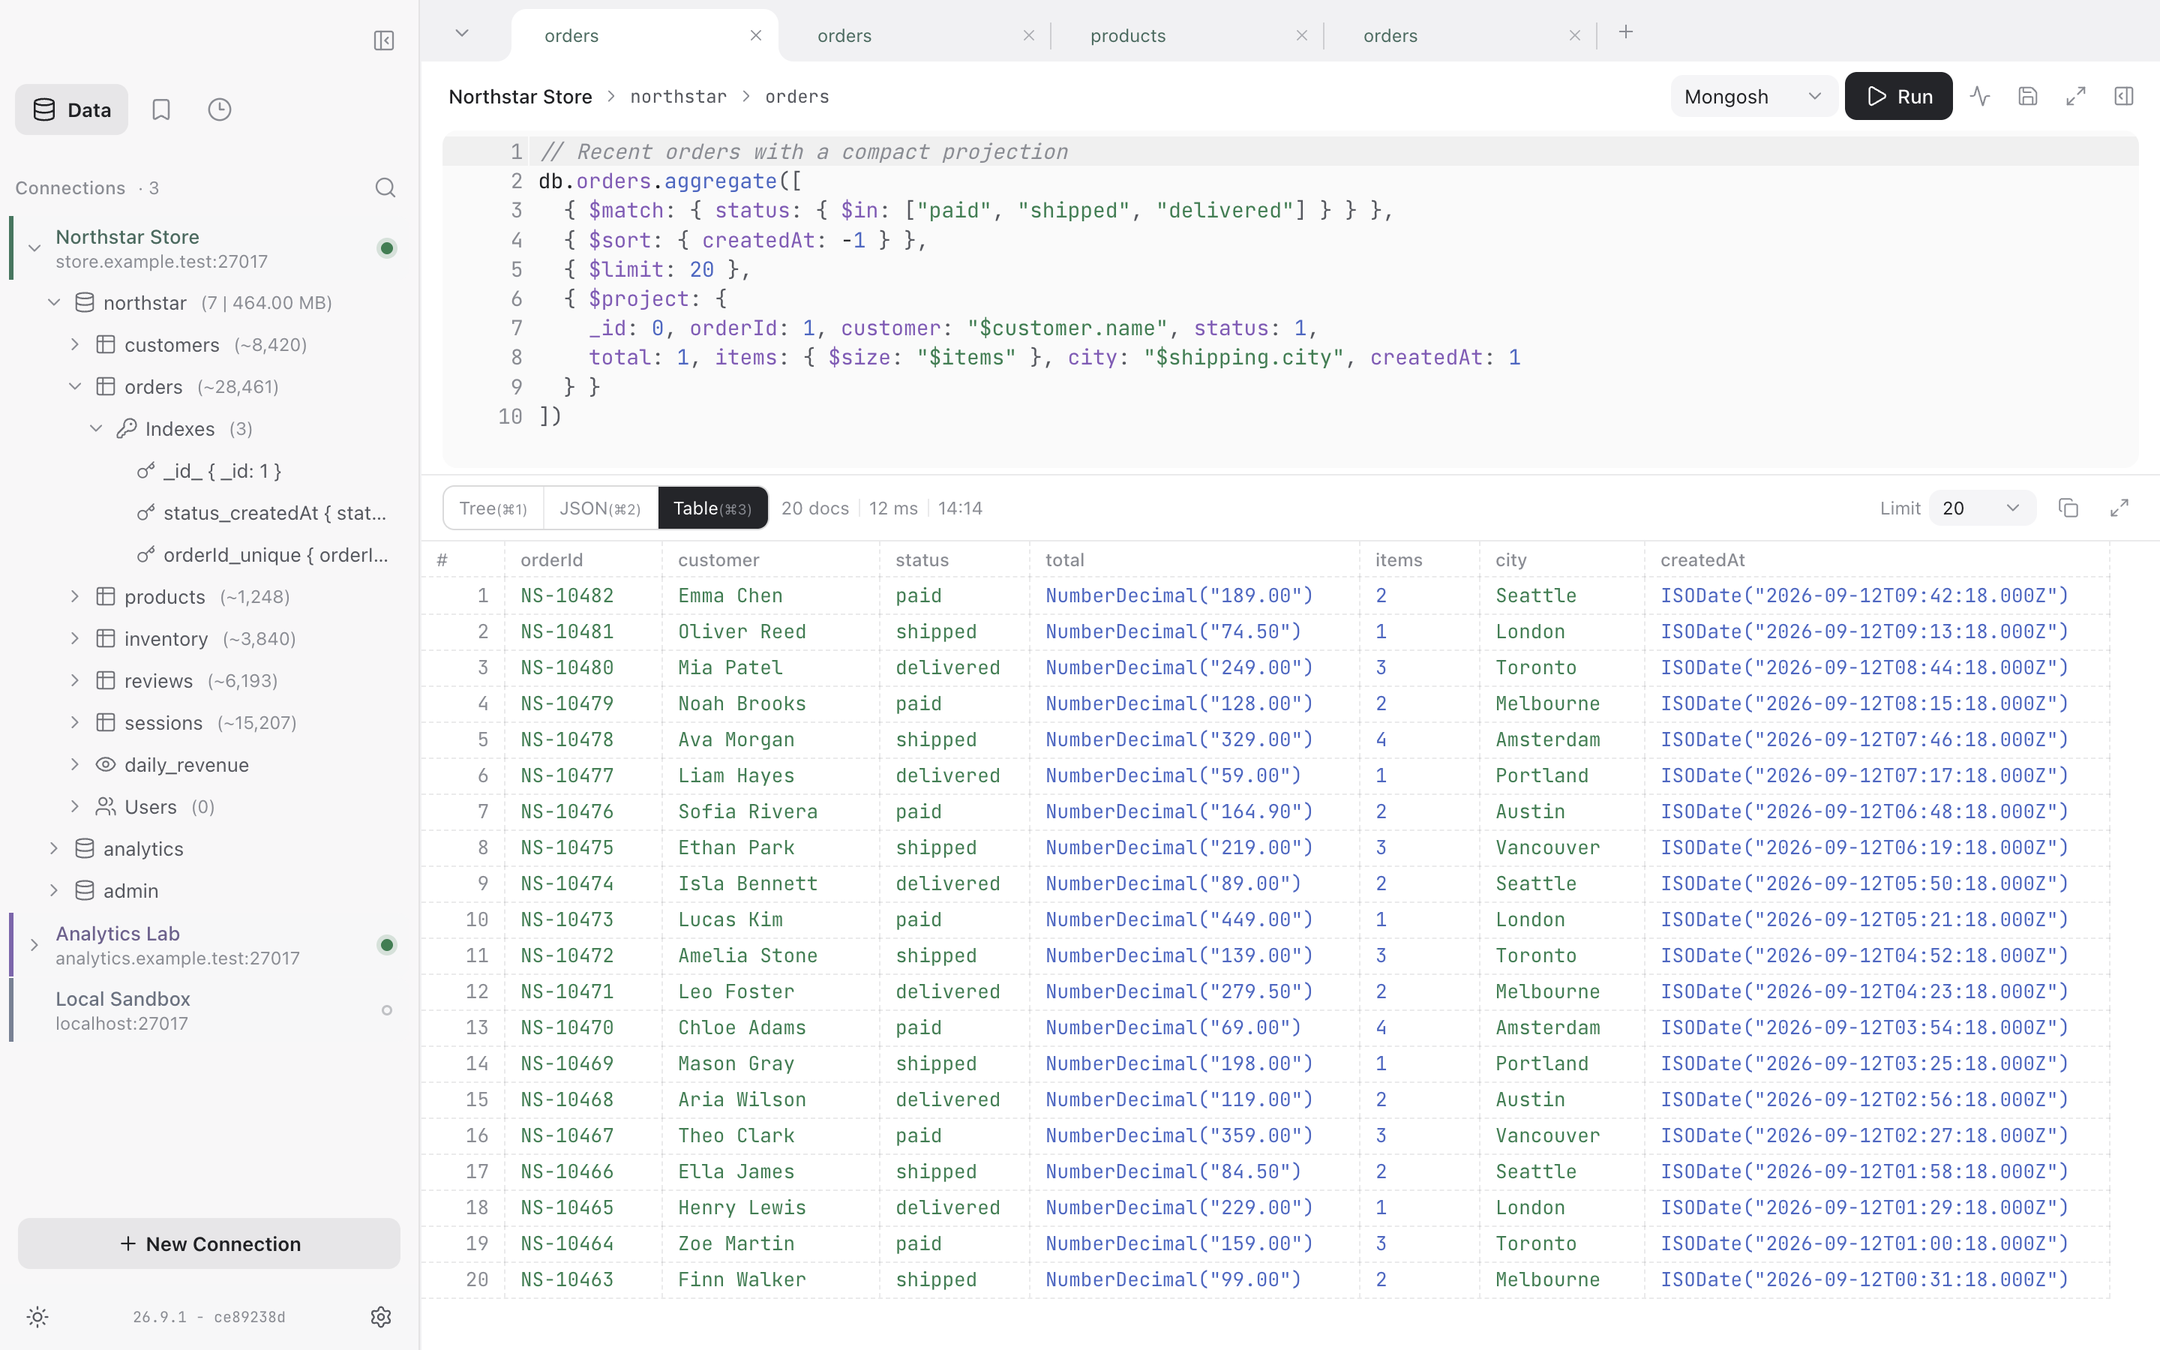
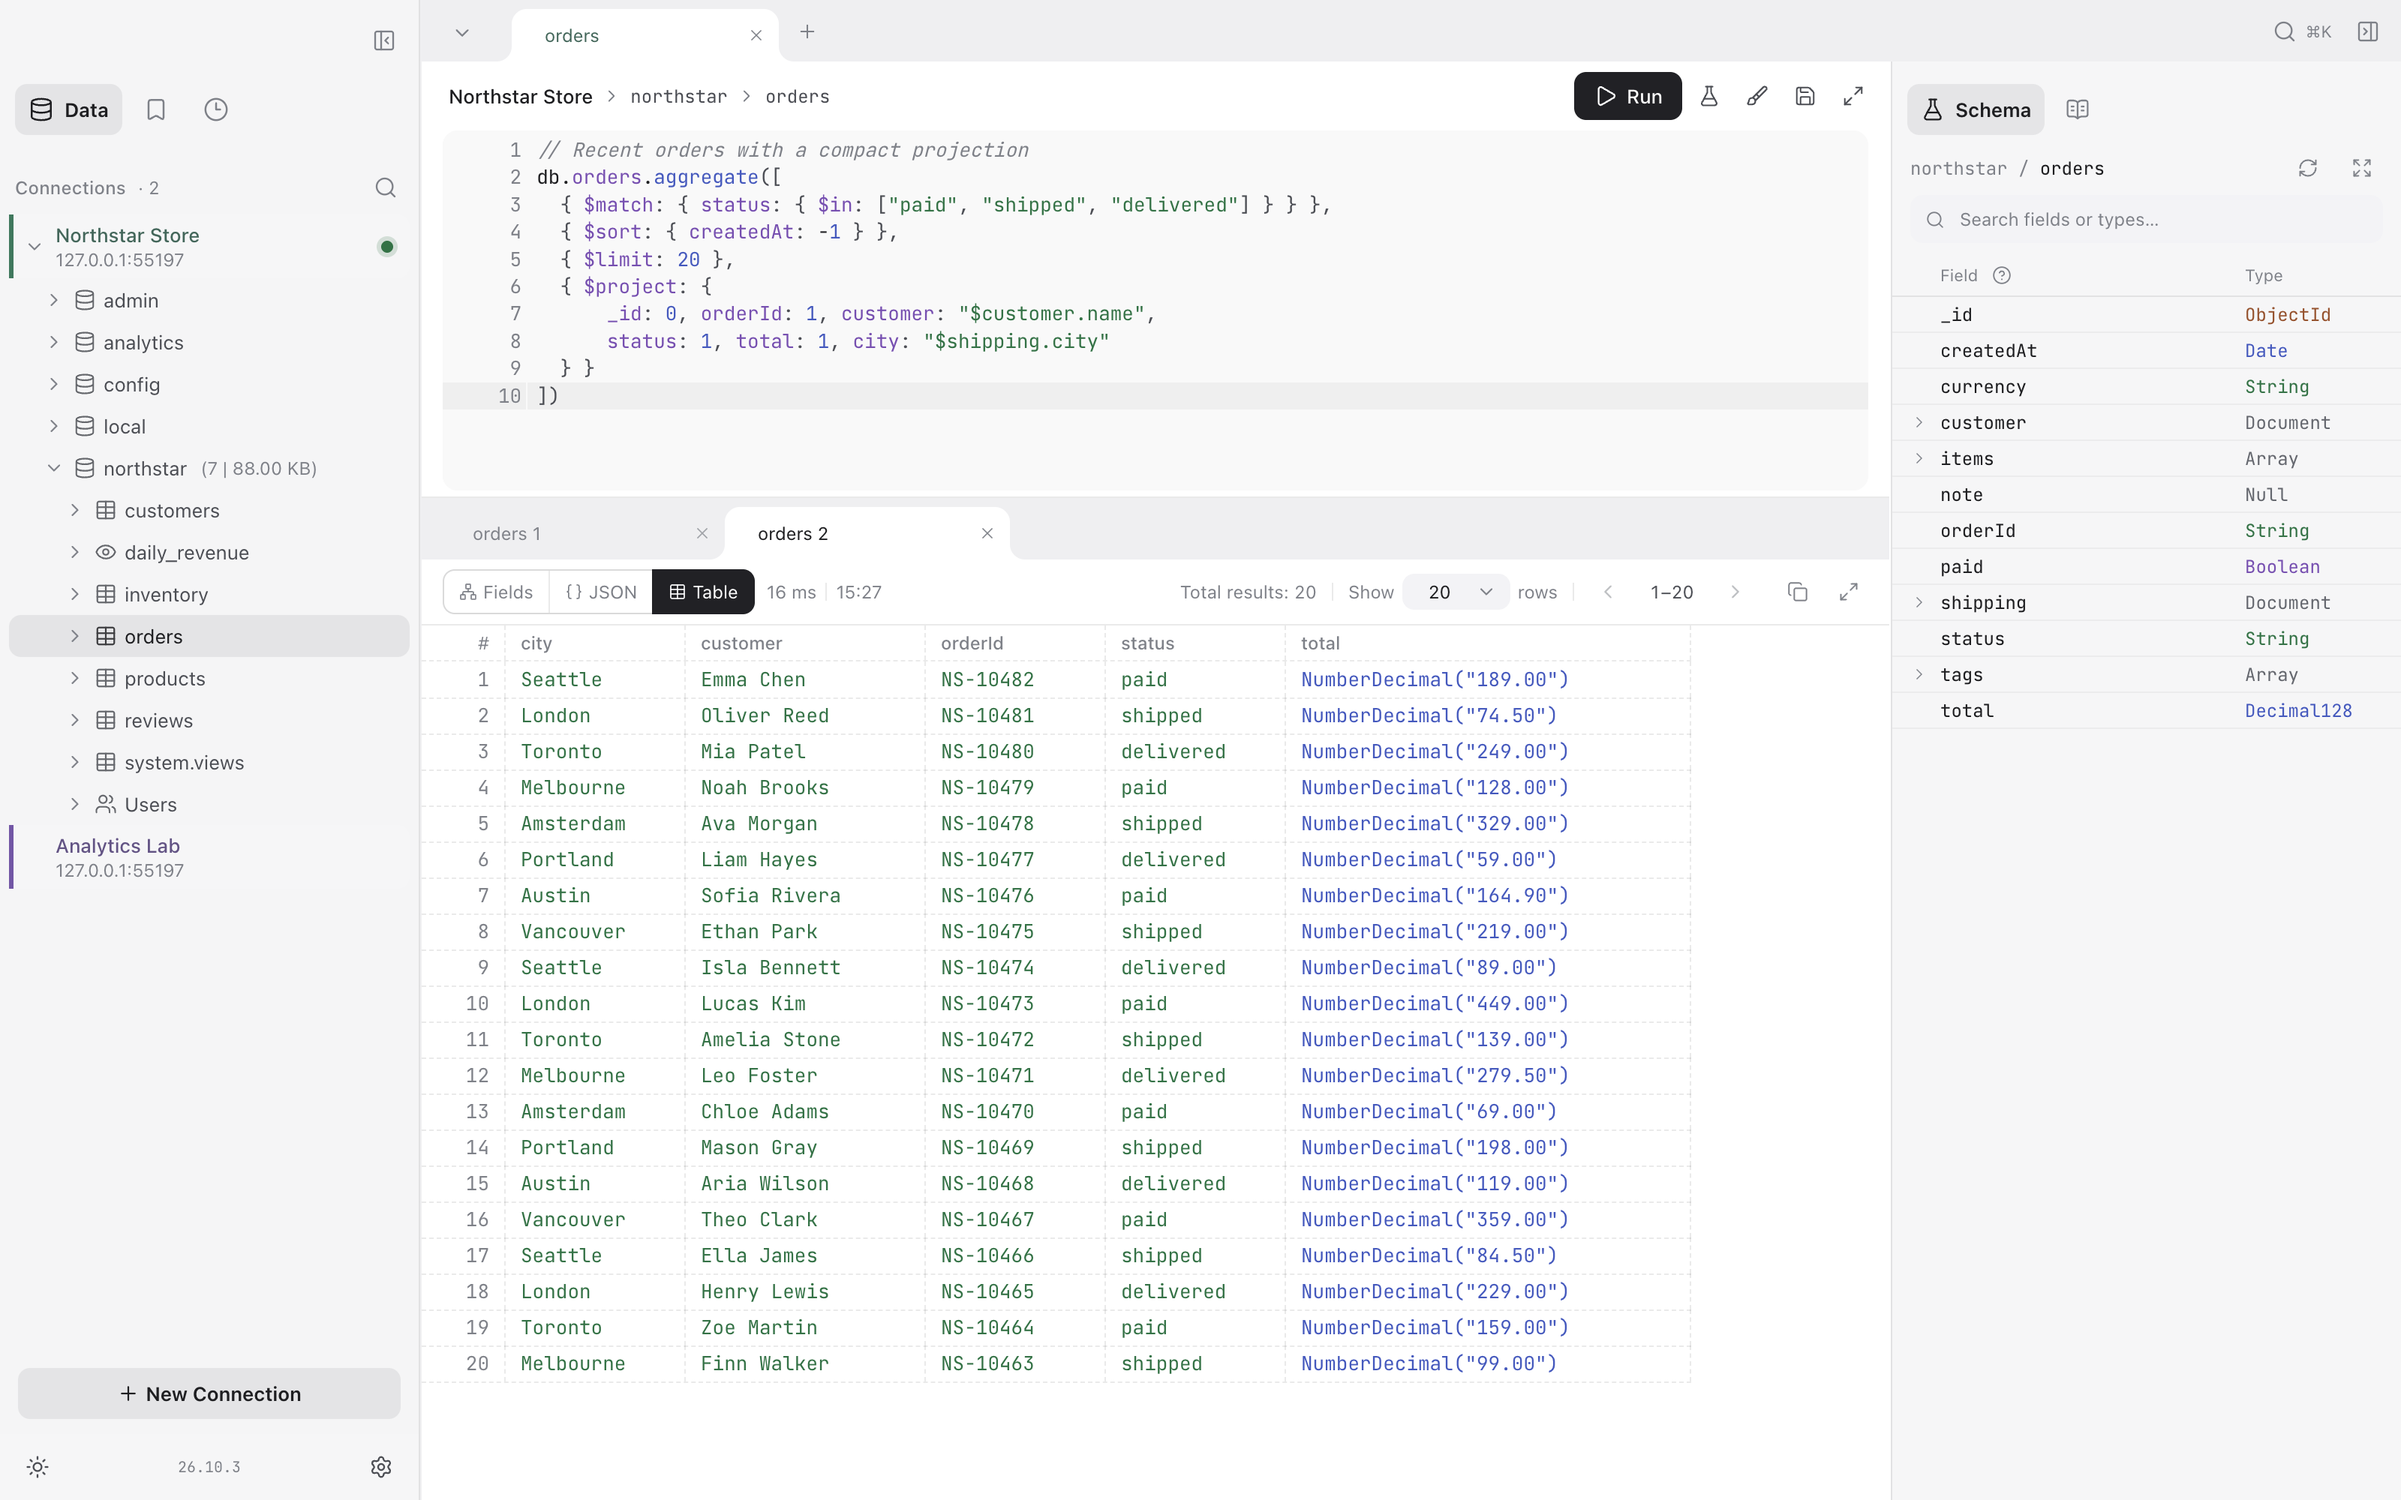
docs: refresh screenshots and streamline readmes

diff --git a/README.md b/README.md
@@ -4,9 +4,7 @@
 
 A lean, performance-first MongoDB desktop GUI, powered by Electron.
 
-> Still under development — don't use it for anything important; no liability for data loss.
-
-![AMDM light theme with an aggregation query and table results](./docs/screenshots/table-light.png)
+![AMDM light theme with an aggregation query, table results, and collection schema](./docs/screenshots/table-light.png)
 
 <details>
 <summary>More screenshots: document tree, dark theme, and visual explain</summary>
@@ -57,5 +55,3 @@ macOS builds update through Sparkle, use ad-hoc signing, and are not notarized. 
 ## License
 
 [GNU GPL v3.0](./LICENSE)
-
-> AMDM is an unofficial MongoDB client and is not affiliated with MongoDB, Inc. in any way.
